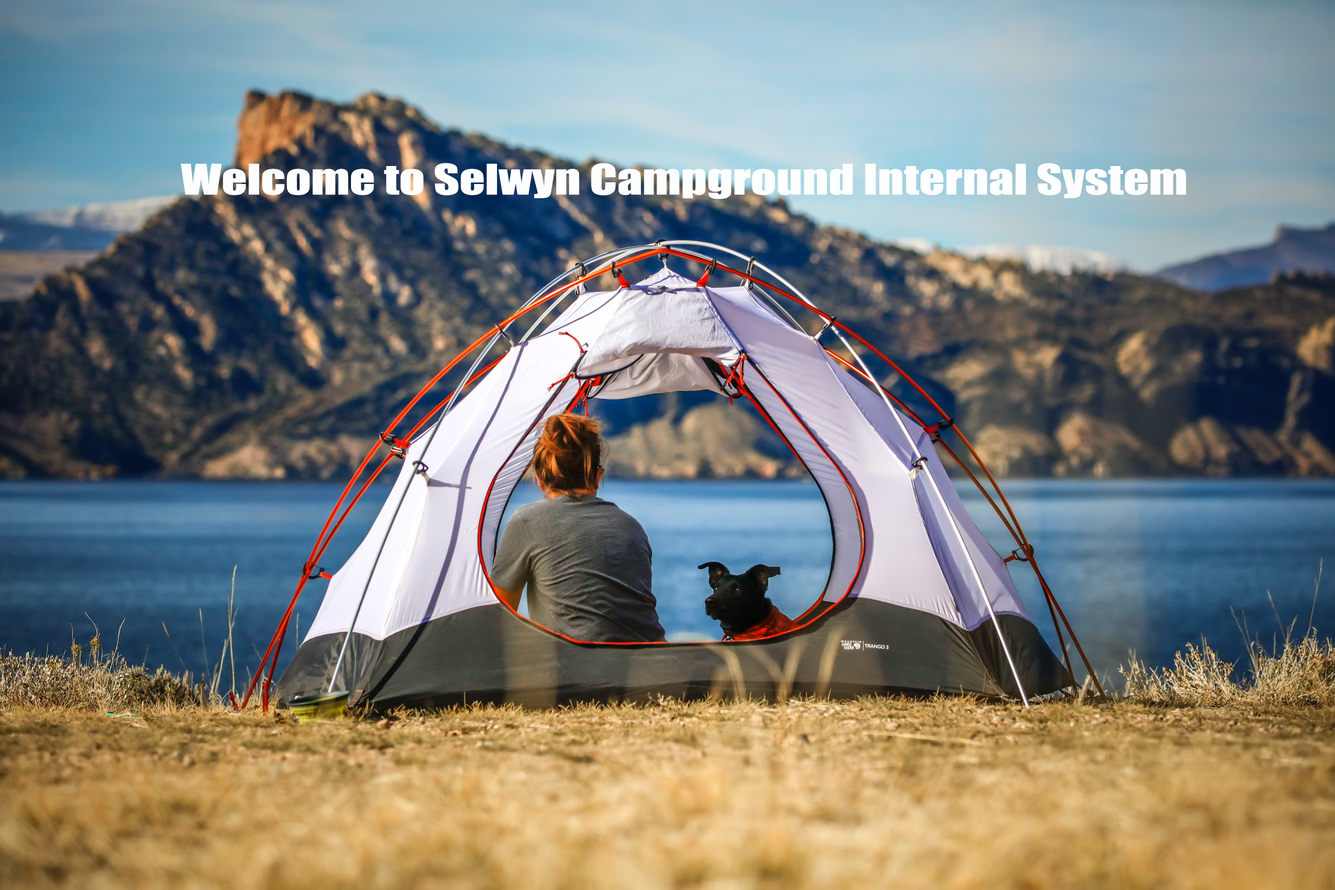
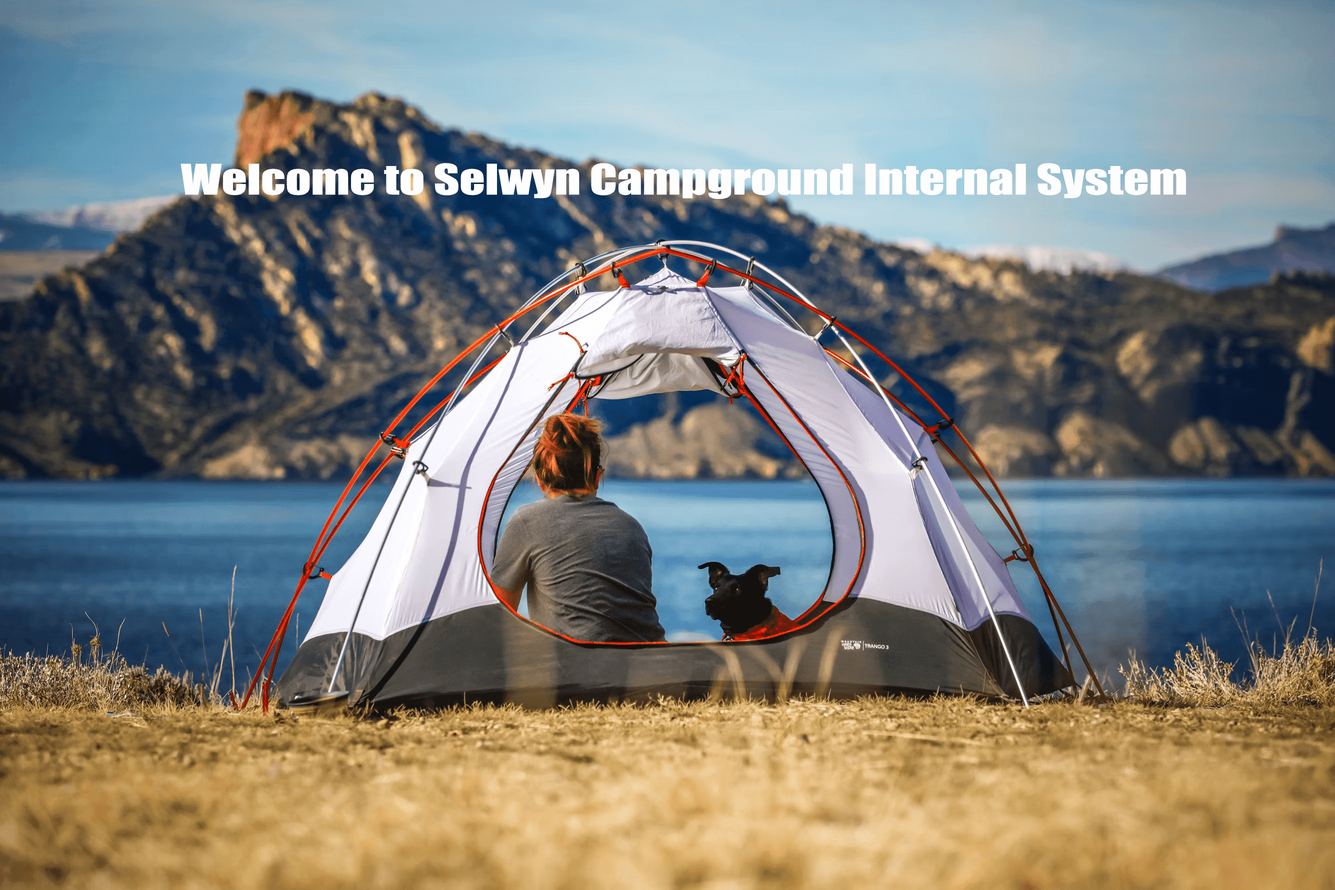
compress image

diff --git a/templates/report.html b/templates/report.html
@@ -1,10 +1,11 @@
-{% extends "base.html" %}
-{% block content %}
+{% extends "base.html" %} {% block content %}
 
 <div class="container">
     <div class="row mt-5 mb-3 justify-content-center">
         <div class="col">
-            <h1 class="fs-3 fw-normal text-center text-dark">Selwyn Campground - Booking Summary</h1>
+            <h1 class="fs-3 fw-normal text-center text-dark">
+                Selwyn Campground - Booking Summary
+            </h1>
         </div>
     </div>
 
@@ -34,7 +35,11 @@
         </div>
     </div>
     <div class="row justify-content-center mb-5 mt-2">
-        <a href="{{ url_for('summary_report')}}" class="btn btn-outline-primary col-auto">Go Back</a>
+        <a
+            href="{{ url_for('summary_report')}}"
+            class="btn btn-outline-primary col-auto">
+            Go Back
+        </a>
     </div>
 </div>
 {% endblock %}
